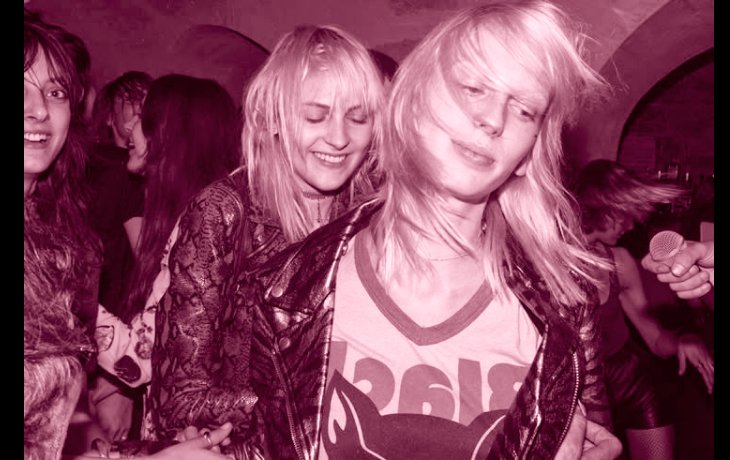
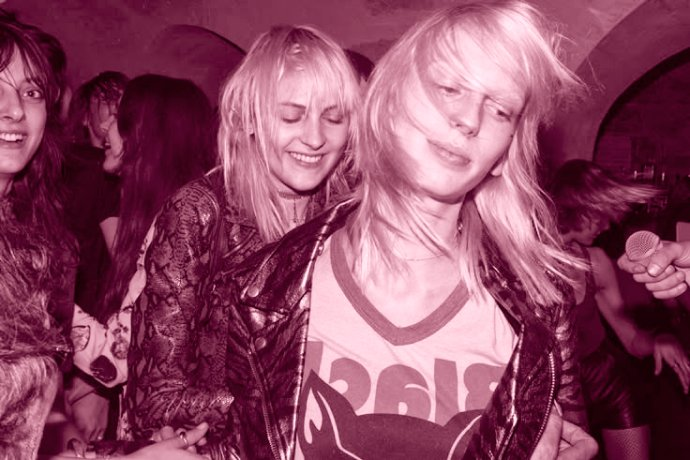
Add files via upload

diff --git a/app/DesktopCanvas.tsx b/app/DesktopCanvas.tsx
@@ -118,19 +118,19 @@ export default function DesktopCanvas() {
     <ScaledCanvas width={DESIGN_WIDTH} height={DESIGN_HEIGHT}>
       <div style={{ position: "relative", width: DESIGN_WIDTH, height: DESIGN_HEIGHT, background: "#FFFFFF" }}>
         {/* Wordmark + nav */}
-        <T href="#top" left={40} top={230} width={394} weight={700} size={44.8} lh={54}>
+        <T href="#top" left={40} top={230} width={480} weight={700} size={44.8} lh={54}>
           THE FUNKTION
         </T>
-        <T href="#top" left={40} top={345} width={284} weight={700} size={31.36} lh={38}>
+        <T href="#top" left={40} top={345} width={340} weight={700} size={31.36} lh={38}>
           HOME ★
         </T>
-        <T href="#whats-next" left={40} top={417} width={284} weight={400} size={31.36} lh={38}>
+        <T href="#whats-next" left={40} top={417} width={340} weight={400} size={31.36} lh={38}>
           WHAT&apos;S NEXT
         </T>
-        <T href="#about" left={40} top={488} width={284} weight={400} size={31.36} lh={38}>
+        <T href="#about" left={40} top={488} width={340} weight={400} size={31.36} lh={38}>
           ABOUT
         </T>
-        <T href="#contact" left={40} top={560} width={284} weight={400} size={31.36} lh={38}>
+        <T href="#contact" left={40} top={560} width={340} weight={400} size={31.36} lh={38}>
           CONTACT
         </T>
 
@@ -176,7 +176,7 @@ export default function DesktopCanvas() {
         </T>
 
         {/* WHAT'S NEXT */}
-        <T left={40} top={1096} width={350} weight={700} size={44.8} lh={54} tracking="0.04em">
+        <T left={40} top={1096} width={450} weight={700} size={44.8} lh={54} tracking="0.04em">
           WHAT&apos;S NEXT ↘
         </T>
         <TicketButton left={1180} top={1096} />
@@ -243,7 +243,7 @@ export default function DesktopCanvas() {
         </T>
 
         {/* ABOUT US */}
-        <T left={50} top={2061} width={314} weight={700} size={44.8} lh={54} tracking="0.04em">
+        <T left={50} top={2061} width={400} weight={700} size={44.8} lh={54} tracking="0.04em">
           ABOUT US
         </T>
         <TicketButton left={1198} top={2051} />
@@ -288,9 +288,23 @@ export default function DesktopCanvas() {
           the funktion is an independent event collective based in klagenfurt,
           austria. we create events people actually want to go to.
         </T>
+        <T
+          left={1440 / 2 - 90 / 2 + 67}
+          top={2450}
+          width={90}
+          font="Helvetica Neue, Helvetica, Arial, sans-serif"
+          weight={300}
+          size={14}
+          lh={17}
+          align="right"
+          transform="lowercase"
+        >
+          the funktion is an independent event collective based in klagenfurt,
+          austria. we create events people actually want to go to.
+        </T>
 
-        <T left={660} top={2733} width={121} font="Helvetica Neue, Helvetica, Arial, sans-serif" weight={300} size={12} lh={15}>
-          SCROLL TO EXPLORE ↓
+        <T left={630} top={2733} width={180} align="center" font="Helvetica Neue, Helvetica, Arial, sans-serif" weight={300} size={12} lh={15}>
+          SCROLL TO EXPLORE{"\n"}↓
         </T>
 
         <T left={50} top={2868} width={340} weight={400} size={9} lh={11} opacity={0.45}>
@@ -300,7 +314,7 @@ export default function DesktopCanvas() {
         <TicketButton left={1209} top={2967} />
 
         {/* CONTACT / CTA */}
-        <T left={64} top={3126} width={485} weight={700} size={44.8} lh={54}>
+        <T left={64} top={3126} width={620} weight={700} size={44.8} lh={54}>
           LET&apos;S MAKE{"\n"}SOMETHING HAPPEN.
         </T>
         <T left={64} top={3250} width={457} weight={500} size={21.41} lh={26}>
